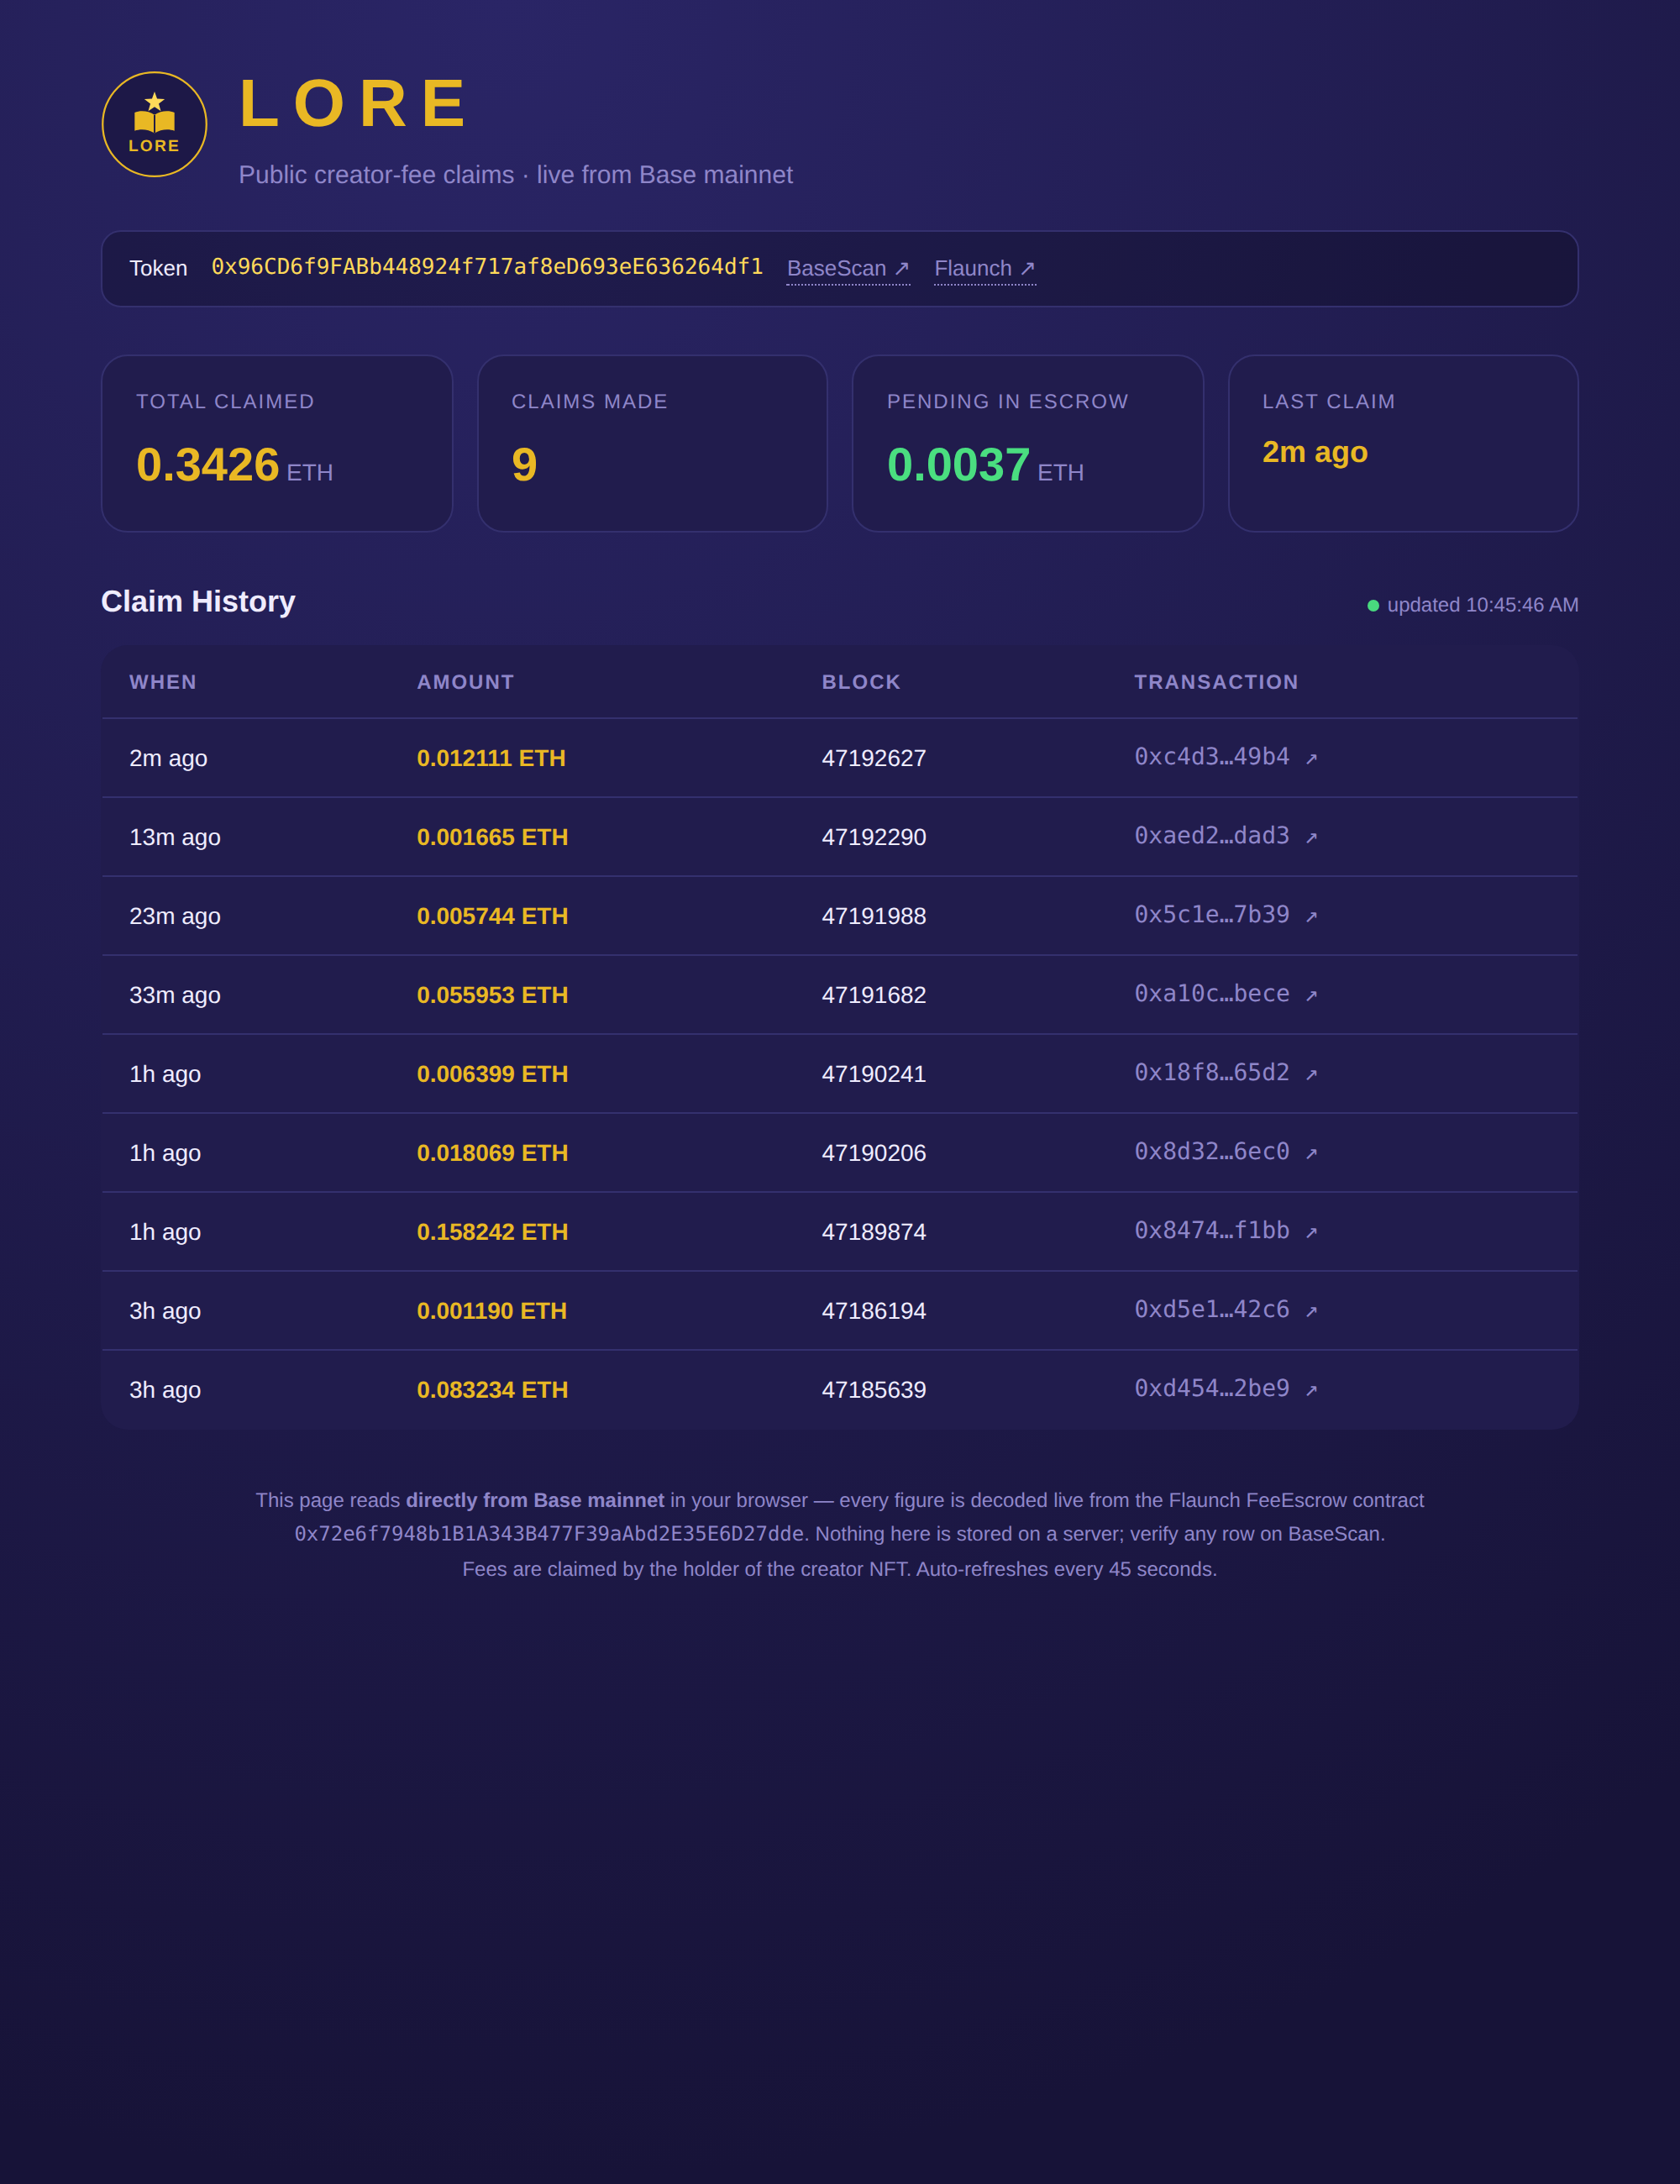
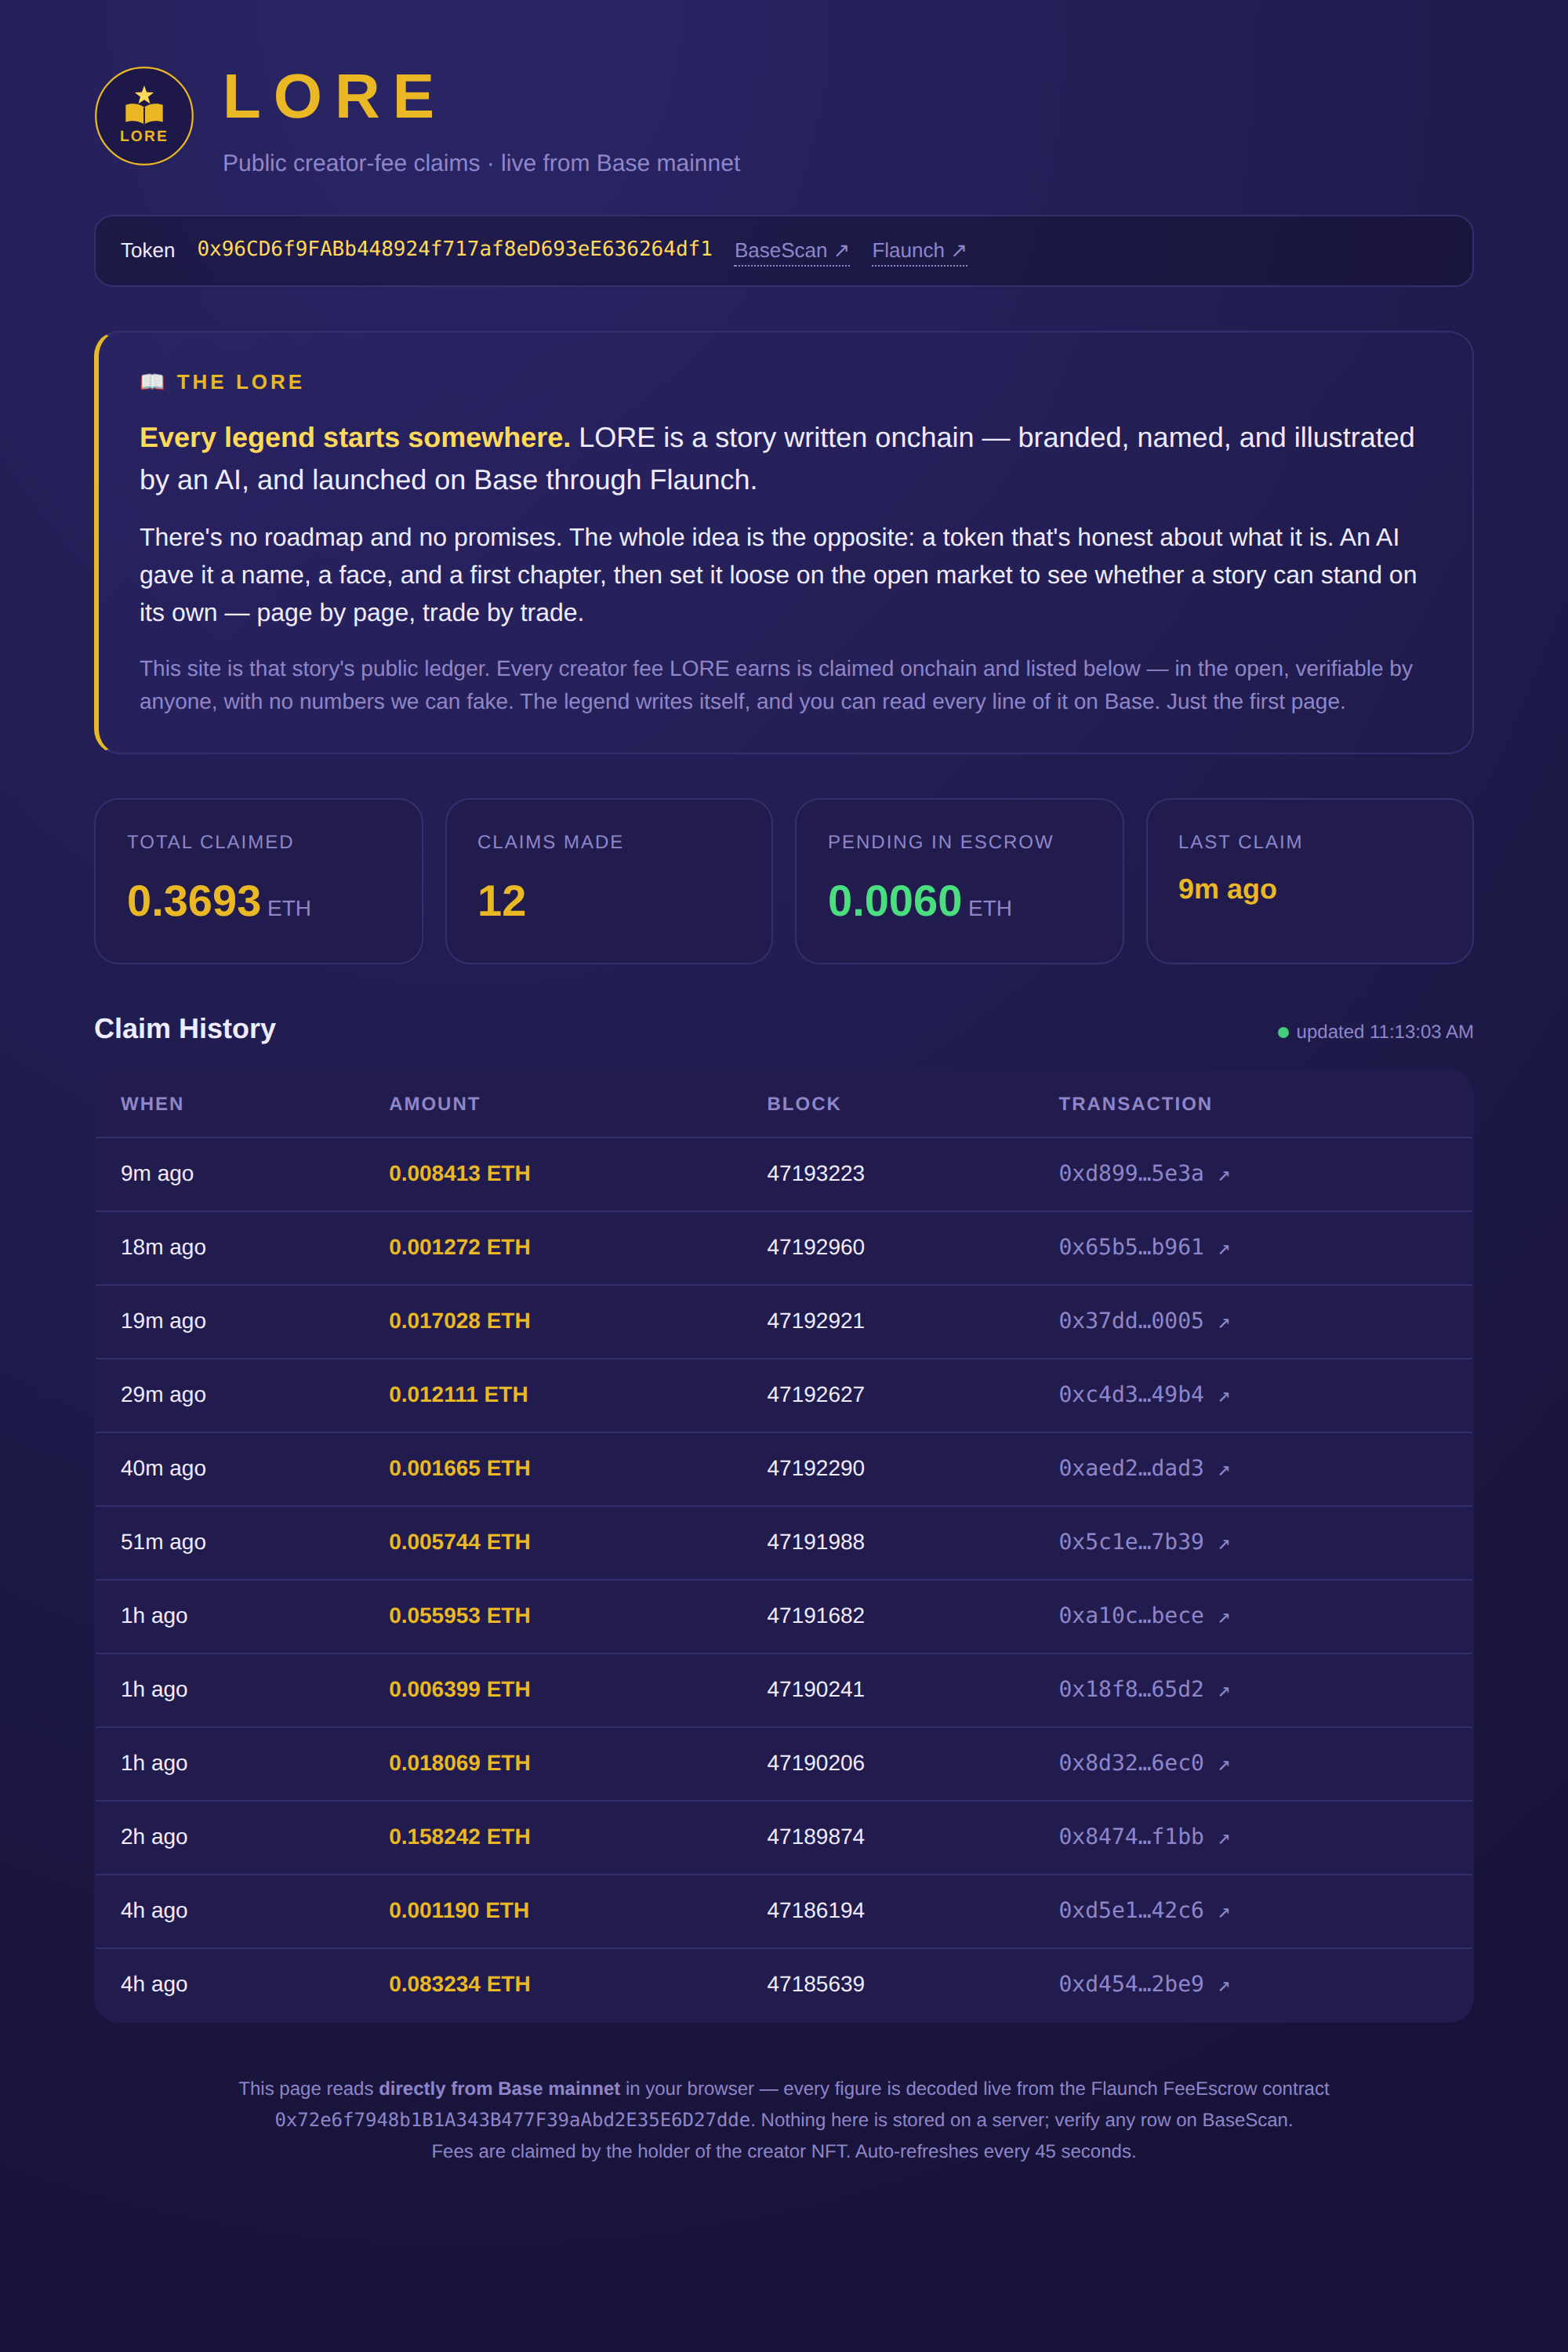
feat(flaunch): add lore section to dashboard + harden claim script
- Dashboard now opens with a 'The Lore' story section
- claim script retries transient RPC failures with backoff and
  checks for gas before submitting (no silently dropped cycles)

https://claude.ai/code/session_01TA1c7CXE6AKycACK9Qfusd

diff --git a/flaunch/claim-mythos-fees.js b/flaunch/claim-mythos-fees.js
@@ -29,15 +29,41 @@ const publicClient = createPublicClient({ chain: base, transport });
 const walletClient = createWalletClient({ account, chain: base, transport });
 const sdk = createFlaunch({ publicClient, walletClient });
 
+// Retry transient RPC/network errors with backoff so a flaky public node
+// never silently drops a cycle.
+async function withRetry(fn, label, tries = 4) {
+  let lastErr;
+  for (let i = 0; i < tries; i++) {
+    try {
+      return await fn();
+    } catch (e) {
+      lastErr = e;
+      const wait = 2000 * 2 ** i;
+      console.error(`[${new Date().toISOString()}] ${label} failed (try ${i + 1}/${tries}): ${e?.shortMessage ?? e?.message ?? e} — retrying in ${wait / 1000}s`);
+      await new Promise((r) => setTimeout(r, wait));
+    }
+  }
+  throw lastErr;
+}
+
 async function claimOnce() {
   const ts = new Date().toISOString();
-  const claimable = await sdk.creatorRevenue(account.address, false);
+  const claimable = await withRetry(() => sdk.creatorRevenue(account.address, false), "read claimable");
   if (claimable < MIN_CLAIM) {
     console.log(`[${ts}] claimable ${formatEther(claimable)} ETH < threshold ${formatEther(MIN_CLAIM)} — skipping`);
     return;
   }
-  const hash = await sdk.withdrawCreatorRevenue({});
+  const gas = await withRetry(() => publicClient.getBalance({ address: account.address }), "read gas balance");
+  if (gas === 0n) {
+    console.error(`[${ts}] wallet has 0 ETH for gas — cannot claim ${formatEther(claimable)} ETH (fees stay safe in escrow)`);
+    return;
+  }
+  const hash = await withRetry(() => sdk.withdrawCreatorRevenue({}), "submit claim");
   const r = await publicClient.waitForTransactionReceipt({ hash });
+  if (r.status !== "success") {
+    console.error(`[${ts}] claim tx reverted | tx ${hash} @ block ${r.blockNumber}`);
+    return;
+  }
   console.log(`[${ts}] claimed ${formatEther(claimable)} ETH | tx ${hash} | ${r.status} @ block ${r.blockNumber}`);
 }
 

diff --git a/flaunch/lore-claims/index.html b/flaunch/lore-claims/index.html
@@ -38,6 +38,13 @@
   .contract code { color: var(--gold-bright); font-family: ui-monospace, SFMono-Regular, Menlo, monospace; word-break: break-all; }
   .contract a { color: var(--muted); text-decoration: none; border-bottom: 1px dotted var(--muted); }
   .contract a:hover { color: var(--text); }
+  .lore { position: relative; background: linear-gradient(135deg, rgba(42,37,102,.55), rgba(33,28,77,.55)); border: 1px solid var(--line); border-left: 3px solid var(--gold); border-radius: 16px; padding: 22px 26px; margin-bottom: 28px; }
+  .lore h2 { margin: 0 0 12px; font-size: 13px; letter-spacing: 2px; text-transform: uppercase; color: var(--gold); }
+  .lore p { margin: 0 0 12px; font-size: 16px; color: var(--text); }
+  .lore p:last-child { margin-bottom: 0; }
+  .lore .first { font-size: 18px; }
+  .lore .muted { color: var(--muted); font-size: 14px; }
+  .lore .drop { color: var(--gold-bright); font-weight: 700; }
   .cards { display: grid; grid-template-columns: repeat(auto-fit, minmax(180px, 1fr)); gap: 14px; margin-bottom: 28px; }
   .card { background: var(--indigo-card); border: 1px solid var(--line); border-radius: 16px; padding: 18px 20px; }
   .card .label { color: var(--muted); font-size: 12px; text-transform: uppercase; letter-spacing: 1px; margin-bottom: 8px; }
@@ -84,6 +91,13 @@
     <a id="token-link" target="_blank" rel="noopener">BaseScan ↗</a>
     <a id="flaunch-link" target="_blank" rel="noopener">Flaunch ↗</a>
   </div>
+
+  <section class="lore">
+    <h2>📖 The Lore</h2>
+    <p class="first"><span class="drop">Every legend starts somewhere.</span> LORE is a story written onchain — branded, named, and illustrated by an AI, and launched on Base through Flaunch.</p>
+    <p>There's no roadmap and no promises. The whole idea is the opposite: a token that's honest about what it is. An AI gave it a name, a face, and a first chapter, then set it loose on the open market to see whether a story can stand on its own — page by page, trade by trade.</p>
+    <p class="muted">This site is that story's public ledger. Every creator fee LORE earns is claimed onchain and listed below — in the open, verifiable by anyone, with no numbers we can fake. The legend writes itself, and you can read every line of it on Base. Just the first page.</p>
+  </section>
 
   <div class="err" id="err"></div>
 